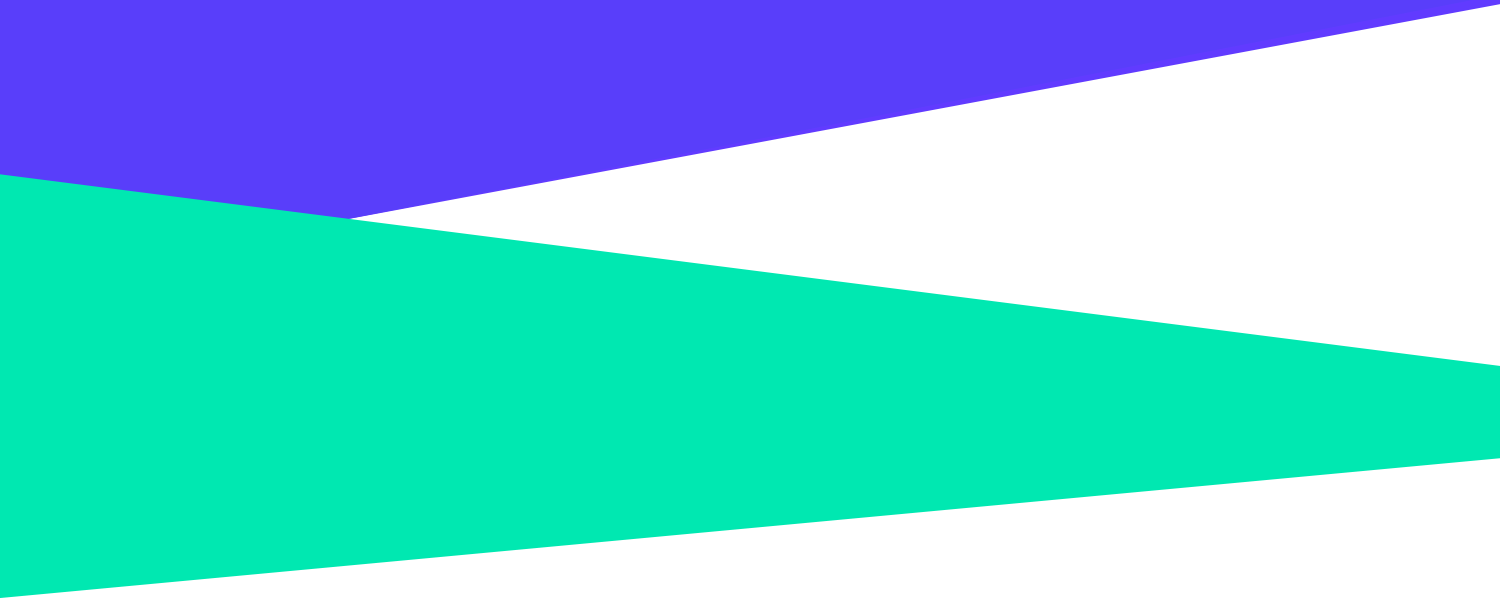
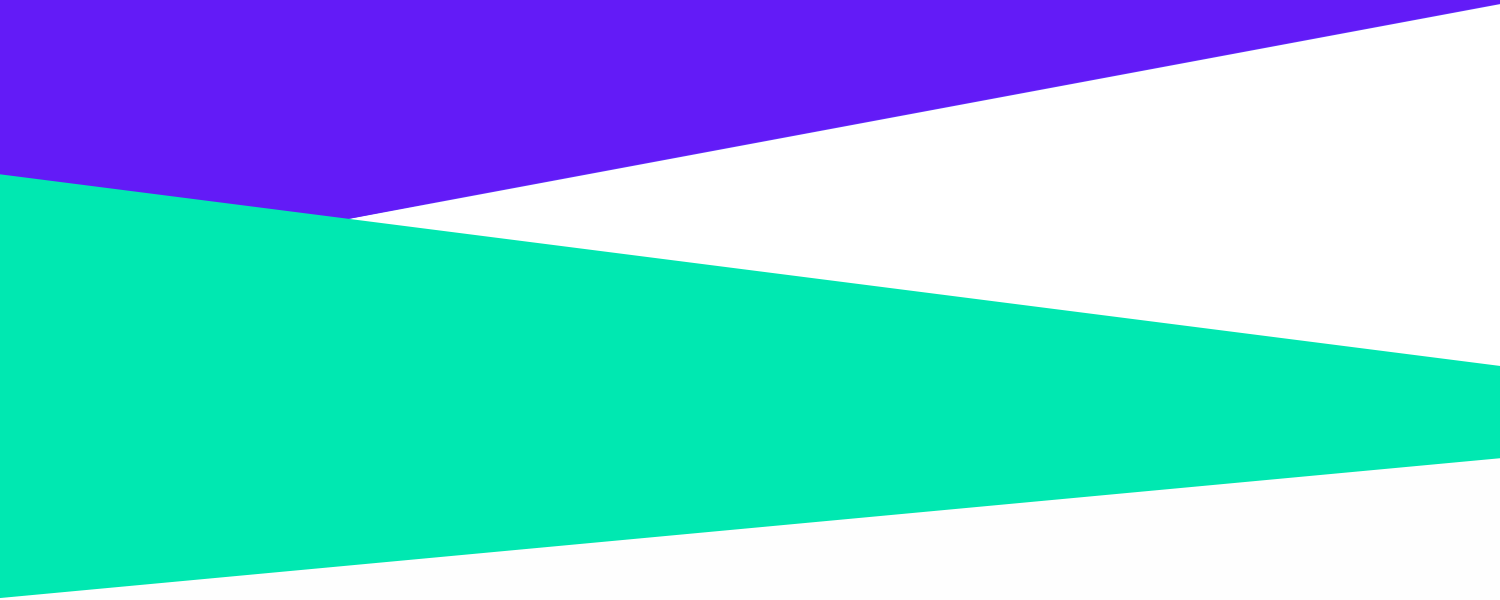
New Home Pic + blue color changed to purple

Changed region(s): [[0.0, 0.0, 1.0, 0.36]]

diff --git a/child zip/updates from staging radical on/style.css b/child zip/updates from staging radical on/style.css
@@ -231,7 +231,7 @@ h1, h3, h4, h5, h6 {
 
 #direct-contact-text a:link, #direct-contact-text a:visited, #direct-contact-text a:hover, #direct-contact-text a:active {
   text-decoration: underline !important;
-  color: #593EFA !important;
+  color: #631bf7 !important;
 }
 
 .slider-link-black a {
@@ -244,7 +244,7 @@ h1, h3, h4, h5, h6 {
   max-width: 100%;
   /*width: 160%;
   margin-left: -20%;*/
-	/*background: #593EFA;*/
+	/*background: #631bf7;*/
 	/*-webkit-background-size: cover;*/
 	/*-webkit-clip-path: polygon(0 0, 100% 0, 0 50%);*/
   /*clip-path: polygon(0 0, 100% 0, 0 50%);*/
@@ -286,7 +286,7 @@ h1, h3, h4, h5, h6 {
 
 /*.workshop-blue-mask {
   height: 150px;
-  background: #593EFA;
+  background: #631bf7;
   -webkit-background-size: cover;
   -webkit-clip-path: polygon(0 0, 100% 56%, 0 100%);
   clip-path: polygon(0 0, 100% 56%, 0 100%);
@@ -1113,7 +1113,7 @@ h2 {
 
 .contact-image-mask{
   height: 300px;
-  /*background: #593EFA;*/
+  /*background: #631bf7;*/
   /*-webkit-clip-path: polygon(0 0, 100% 0, 100% 88%, 0 20%);*/
   /*clip-path: polygon(0 0, 100% 0, 100% 88%, 0 20%);*/
   background-size: 100%;
@@ -1357,15 +1357,15 @@ h2 {
 
 /*HOME*/
 .page-id-1524 .navbar-default.default.sdark {
-  background: #593EFA !important;
+  background: #631bf7 !important;
 }
 
 .page-id-1524 .navbar-default.default.sdark ul > li > a{
-  background: #593EFA !important;
+  background: #631bf7 !important;
 }
 
 .page-id-1524 a:link,.page-id-1524 a:visited, .page-id-1524 a:hover, .page-id-1524 a:active{
-  color: #593EFA;
+  color: #631bf7;
 }
 
 
